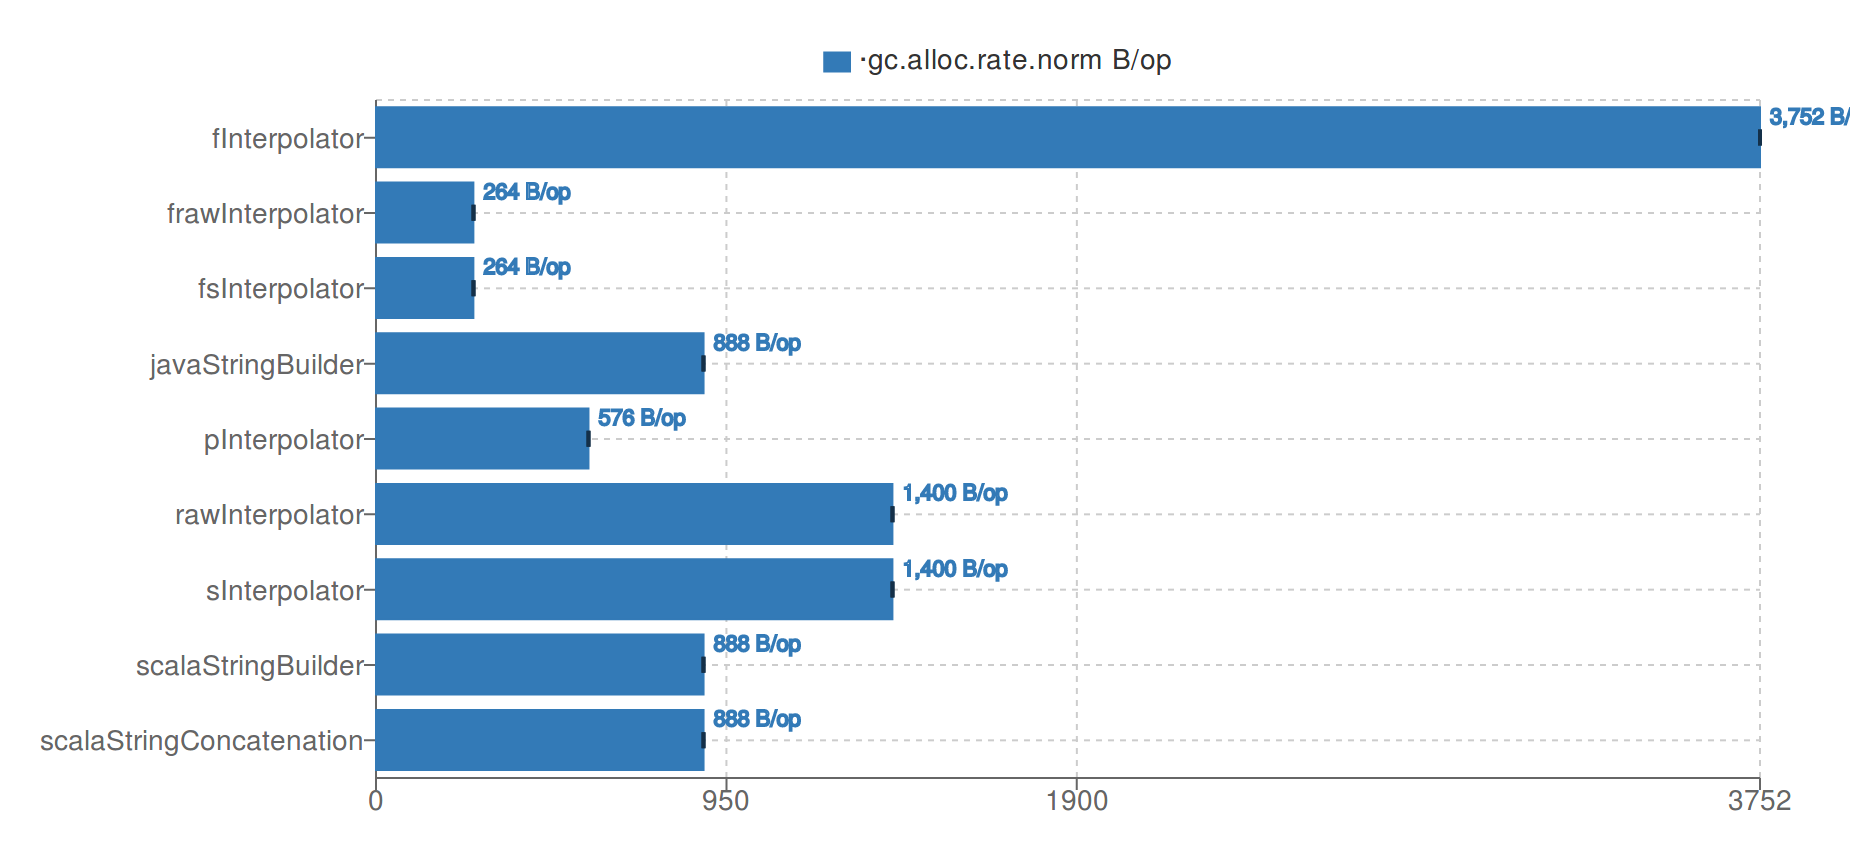
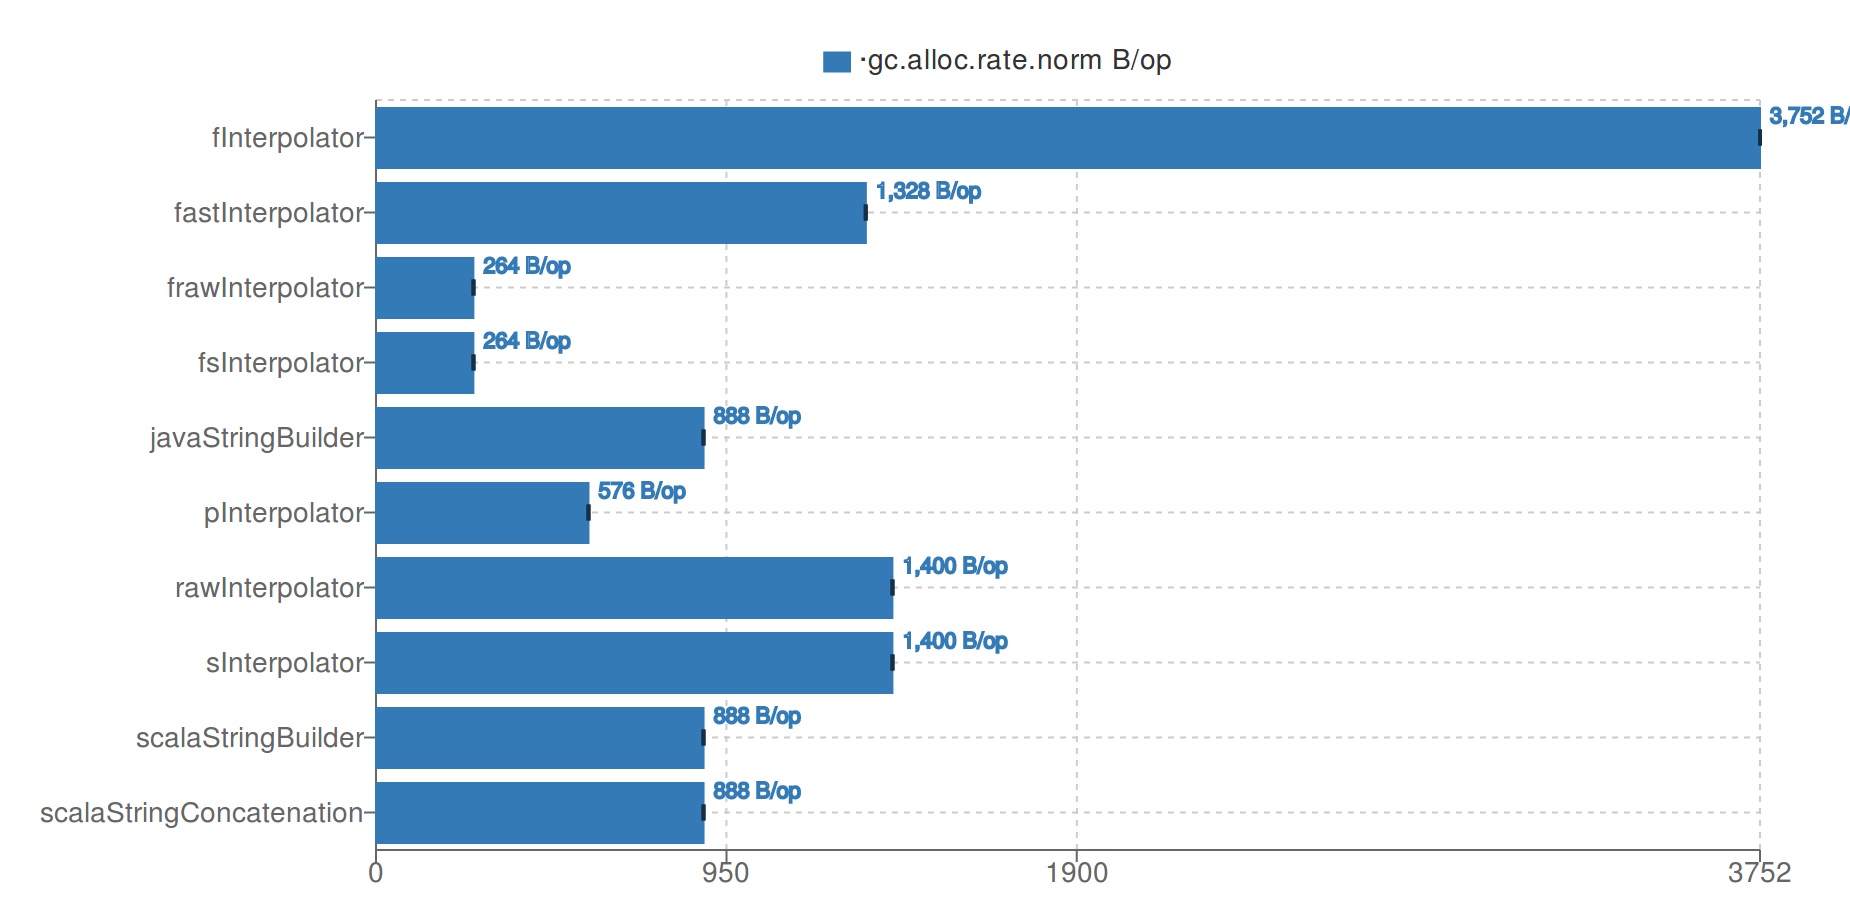
Add benchmark for the fastring interpolator

Changed region(s): [[0.0, 0.0307, 1.0, 0.9811]]

diff --git a/README.md b/README.md
@@ -41,9 +41,10 @@ That's it! You have got ~2.5x speed up in runtime and ~5x less usage of heap mem
 
 Also, it is more efficient than a simple concatenation of strings by the `+` operator or using string builders for that.
 
-Check for benchmark results where the fast string interpolator compared with
-Scala interpolators, Scala/Java string builders, and a string concatenation using JDK 8 and Scala 2.12.4:
+Check for benchmark results where the fast string interpolator compared with standard Scala interpolators, 3rd-party 
+interpolators, Scala/Java string builders, and a string concatenation using JDK 8 and Scala 2.12.4:
 - *fInterpolator* - standard string interpolator with formatting
+- *fastInterpolator* - the [fastring](https://github.com/Atry/fastring) interpolator  
 - *frawInterpolator* - fast string interpolator replacement for raw string interpolator  
 - *fsInterpolator* - fast string interpolator replacement for simple string interpolator 
 - *javaStringBuilder* - java.lang.StringBuilder
